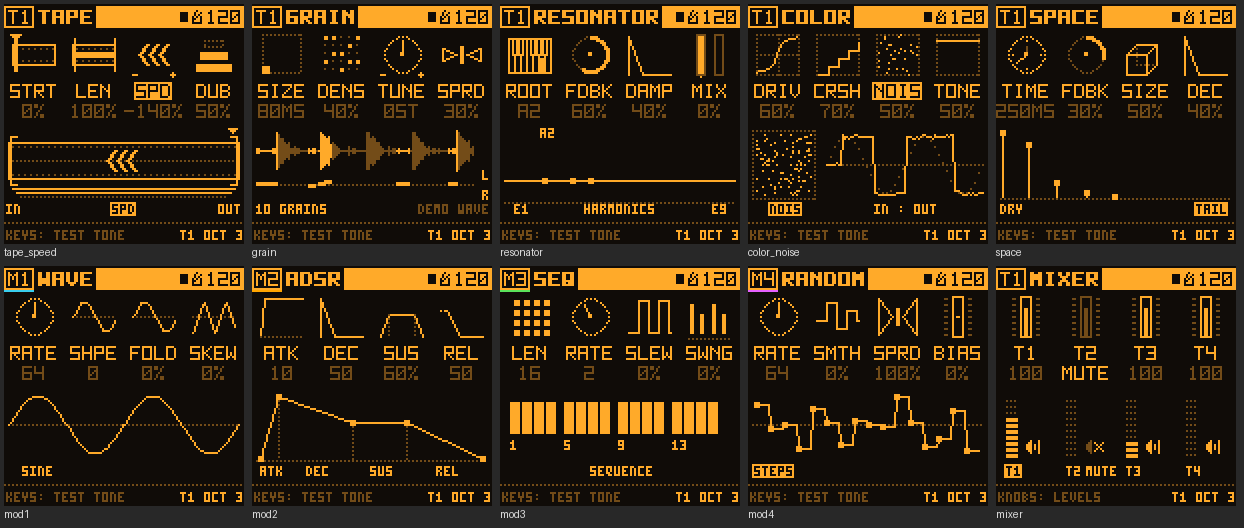
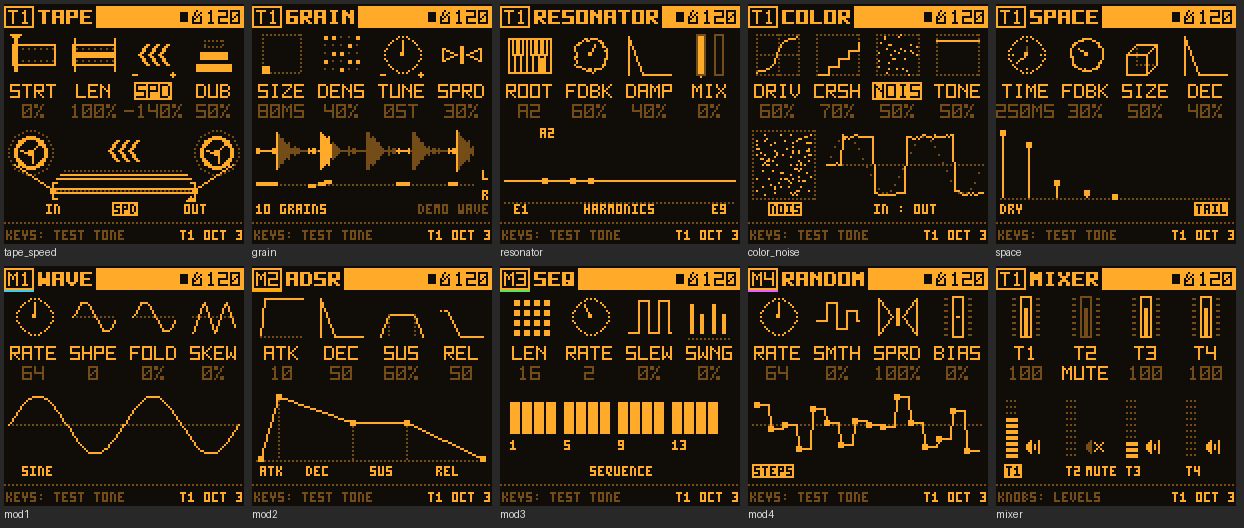
Bryo: a feedback ring that turns to chaos, and TAPE as a reel-to-reel
FDBK's dial (RESONATOR, SPACE): each of the ring's 64 points moves off its
radius by up to 2.2 dots, a slow two-sine wobble at low feedback giving way to
jitter near the top. It stays inside its 22-dot box at every value; fixed seeds
keep the picture the same for the same value. A pointer still reads the value.

TAPE: two reels, two guides, and the run between the guides is the whole tape,
with the loop bracketed on it, the playhead under it, SPD as chevrons between
the reels and DUB as layers over the window. The dashed strip read as a road.

Goldens and screen sheets updated.

Claude-Session: https://claude.ai/code/session_011E3mkWDTWqtPtt4Lk7Lgg8

Changed region(s): [[0.0, 0.2424, 0.2138, 0.4242], [0.8553, 0.0606, 0.8859, 0.1515], [0.4582, 0.0606, 0.4887, 0.1515]]

diff --git a/bryo/firmware/src/ui_viz.c b/bryo/firmware/src/ui_viz.c
@@ -7,8 +7,8 @@
  * a value sits, dotted drop lines and guides, small 3 x 5 labels under the plot, the way a groovebox draws an
  * envelope. The page's last-turned knob gets its label inverted here too, where the picture has one.
  *
- *   TAPE       the tape with its sprocket holes, the loop window bracketed (START, LEN), the playhead, SPEED as
- *              chevrons inside the window, DUB as the layers under it
+ *   TAPE       a reel-to-reel: the run between the guides is the whole tape, the loop window bracketed on it
+ *              (STRT, LEN), the playhead under it, SPD as chevrons between the reels, DUB as layers over the window
  *   GRAIN      the sample in TAPE's loop window, lit where grains read it (SIZE, scaled by PITCH), and one solid
  *              block per grain (DENS) in a stereo lane under it (SPRD, up = left, down = right)
  *   RESONATOR  the response over 8 octaves: peaks on ROOT's harmonics (a node on each, the root's filled and
@@ -67,40 +67,59 @@ static void vz_poly(const int32_t *xs, const int32_t *ys, int32_t n, uint16_t c,
 }
 
 /* -------------------------------------------------------------- TAPE --- */
+/* a reel: its flange (dotted), the tape wound on it (solid), the hub and three spokes */
+static void vz_reel(int32_t cx, int32_t cy)
+{
+    int32_t k;
+    px_ring(cx, cy, 11, px_dim, 2);
+    px_ring(cx, cy, 8, px_ink, 1);
+    px_ring(cx, cy, 7, px_ink, 1);
+    px_box(cx - 1, cy - 1, 3, 3, px_ink);
+    for (k = 0; k < 3; k++)
+        px_line(px_px(cx, 2, 8 + k * 21), px_py(cy, 2, 8 + k * 21), px_px(cx, 5, 8 + k * 21), px_py(cy, 5, 8 + k * 21), px_ink, 1);
+}
+
 static void viz_tape(const int16_t *v, uint32_t f)
 {
-    int32_t x0 = DX0 + 1 + v[0] * (DW - 2) / 100, x1 = x0 + v[1] * (DW - 2) / 100, i, k, lit = (v[3] + 33) / 34;
-    if (x1 > DX1 - 1)
-        x1 = DX1 - 1;
-    px_frame(DX0, 7, DW + 1, 19, px_ink, 1);                           /* the tape */
-    for (i = DX0 + 2; i < DX1 - 1; i += 3) {                          /* its sprocket holes */
-        px_dot(i, 9, px_dim);
-        px_dot(i, 23, px_dim);
-    }
-    px_line(DX0 + 2, 16, DX1 - 2, 16, px_dim, 2);                      /* empty: a flat line (phase 2: the take) */
+    /* A reel-to-reel: the tape leaves the left reel, runs over two guides along the bottom (the whole tape, start
+     * to end, left to right) and winds onto the right reel. The loop window is bracketed on that run (START, LEN),
+     * the playhead sits under where playing starts (the end when reversed), SPEED is the chevrons between the
+     * reels, and DUB the layers stacked over the window. */
+    int32_t ga = 24, gb = 95, run = 31, x0 = ga + v[0] * (gb - ga) / 100, x1 = x0 + v[1] * (gb - ga) / 100, k;
+    int32_t lit = (v[3] + 33) / 34;
+    if (x1 > gb)
+        x1 = gb;
+    vz_reel(13, 12);
+    vz_reel(106, 12);
+    px_line(5, 18, ga - 1, run - 1, px_ink, 1);                        /* off the left reel, onto the right */
+    px_line(gb + 1, run - 1, 114, 18, px_ink, 1);
+    vz_node(ga, run, 0);                                               /* the guides */
+    vz_node(gb, run, 0);
+    px_line(ga + 2, run - 1, gb - 2, run - 1, px_ink, 1);              /* the run: a band two dots deep */
+    px_line(ga + 2, run + 1, gb - 2, run + 1, px_ink, 1);
+    px_line(ga + 2, run, gb - 2, run, px_dim, 2);                      /* empty (phase 2: the take shows here) */
     for (k = 0; k < 2; k++) {                                          /* the brackets, 2 dots wide when turned */
         int32_t x = k ? x1 : x0, s = k ? -1 : 1, w = f == (uint32_t)k ? 2 : 1;
-        px_box(k ? x - w + 1 : x, 4, w, 25, px_ink);
-        px_line(x, 4, x + 3 * s, 4, px_ink, 1);
-        px_line(x, 28, x + 3 * s, 28, px_ink, 1);
+        px_box(k ? x - w + 1 : x, run - 4, w, 9, px_ink);
+        px_line(x, run - 4, x + 2 * s, run - 4, px_ink, 1);
+        px_line(x, run + 4, x + 2 * s, run + 4, px_ink, 1);
     }
-    {   /* the playhead: a triangle over where playing starts (the end, reversed) */
+    {   /* the playhead: a triangle under the run, pointing up at where playing starts */
         int32_t px = v[2] < 0 ? x1 - 2 : x0 + 2;
         for (k = 0; k < 3; k++)
-            px_box(px - 2 + k, k, 5 - 2 * k, 1, px_ink);
+            px_box(px - k, run + 3 + k, 1 + 2 * k, 1, px_ink);
     }
-    if (x1 - x0 >= 14)
-        px_chevrons((x0 + x1) / 2, 16, v[2], px_ink);
-    for (k = 0; k < 3; k++) {                                          /* DUB: the layers kept, under the window */
-        int32_t lx = x0 + 1 + k * 2, rx = x1 - 1 - k * 2;
+    for (k = 0; k < 3; k++) {                                          /* DUB: the layers kept, over the window */
+        int32_t lx = x0 + 2 + k * 2, rx = x1 - 2 - k * 2;
         if (rx > lx)
-            px_line(lx, 30 + k * 2, rx, 30 + k * 2, k < lit ? px_ink : px_dim, k < lit ? 1 : 2);
+            px_line(lx, run - 6 - k * 2, rx, run - 6 - k * 2, k < lit ? px_ink : px_dim, k < lit ? 1 : 2);
     }
+    px_chevrons(60, 11, v[2], px_ink);                                 /* SPEED, between the reels */
     vz_label(x0, "IN", f == 0u);
     if (x1 - x0 >= 22 || f == 1u)
         vz_label(x1, "OUT", f == 1u);
     if (f == 3u || f == 2u)
-        vz_label((x0 + x1) / 2, f == 3u ? "DUB" : "SPD", 1);
+        vz_label(60, f == 3u ? "DUB" : "SPD", 1);
 }
 
 /* ------------------------------------------------------------- GRAIN --- */

diff --git a/bryo/firmware/src/ui_px.c b/bryo/firmware/src/ui_px.c
@@ -330,13 +330,35 @@ static void px_picto(uint32_t kind, int32_t x, int32_t y, const pdesc_t *d, int3
         px_line(x + 20, cy - h, x + 20, cy + h, c, 1);
         break;
     }
-    case PK_LOOP: {                                      /* feedback: the ring closes as the value grows */
-        int32_t n = r * 63 / 1000, a;
-        px_ring(cx, cy, 9, m, 2);
-        for (a = 0; a <= n; a++) {
-            px_dot(px_px(cx, 9, a), px_py(cy, 9, a), c);
-            px_dot(px_px(cx, 8, a), px_py(cy, 8, a), c);
+    case PK_LOOP: {                                      /* feedback: the dial's ring turns to chaos as it rises */
+        /* Each of the ring's 64 points moves off radius 8 by up to 2.2 dots, so it never leaves the box: a slow
+         * wobble at low feedback (two sines), giving way to jitter near the top, the way a loop near self-
+         * oscillation smears. Fixed seeds: the same value draws the same ring. The pointer reads the value. */
+        int32_t k, px0 = 0, py0 = 0, fx = 0, fy = 0, amp = r * 22 / 1000;   /* amp: tenths of a dot */
+        uint32_t s = 2463534242u;
+        for (k = 0; k <= 64; k++) {
+            int32_t ak = k & 63, smooth = (px_sin(ak * 5 + 7) * 6 + px_sin(ak * 11 + 3) * 4) / 10, jit, d, rad, xx, yy;
+            s ^= s << 13;
+            s ^= s >> 17;
+            s ^= s << 5;
+            jit = (int32_t)(s % 2001u) - 1000;
+            d = k == 64 ? 0 : (smooth * (1000 - r) + jit * r) / 1000;       /* -1000..1000 */
+            rad = 80 + (k == 64 ? 0 : d * amp / 1000);                    /* tenths of a dot */
+            xx = cx + (px_sin(ak) * rad + (px_sin(ak) >= 0 ? 5000 : -5000)) / 10000;
+            yy = cy - (px_cos(ak) * rad + (px_cos(ak) >= 0 ? 5000 : -5000)) / 10000;
+            if (k == 64) {                                                /* close on the first point */
+                xx = fx;
+                yy = fy;
+            }
+            if (k)
+                px_line(px0, py0, xx, yy, c, 1);
+            else
+                fx = xx, fy = yy;
+            px0 = xx;
+            py0 = yy;
         }
+        k = -24 + r * 48 / 1000;
+        px_line(cx, cy, px_px(cx, 5, k), px_py(cy, 5, k), c, 1);
         px_box(cx - 1, cy - 1, 2, 2, c);
         break;
     }

diff --git a/bryo/docs/bryo-architecture.md b/bryo/docs/bryo-architecture.md
@@ -355,9 +355,13 @@ After phase 1, two changes to the screen, from your review:
     holding REC, the transport and the metronome, like the references.
   - **The strip** is four pictograms, and each one is the value: a dial's pointer, a fader's fill, a slope's
     length, a keyboard with the root key lit, chevrons for tape speed, stacked takes for DUB, a dot field for
-    density. The label sits under it (4 letters, Elektron-style: `STRT`, `TUNE`, `DRIV`, `SWNG`), the value
+    density. FDBK's dial ring turns to chaos as feedback rises: a slow wobble first, then jitter near the top, the
+    way a loop close to self-oscillation smears. Every point stays within 2 dots of the circle, so however wild it
+    gets it never leaves its box or touches its neighbours. The label sits under it (4 letters, Elektron-style: `STRT`, `TUNE`, `DRIV`, `SWNG`), the value
     under that in the dim ink.
-  - **The plot below** speaks the same language: 1-dot lines, square nodes where a value sits, dotted drop
+  - **The plot below** speaks the same language (TAPE is a reel-to-reel: two reels, two guides, and the run between
+    the guides is the whole tape, with the loop bracketed on it; the first version was a dashed strip that read as
+    a road): 1-dot lines, square nodes where a value sits, dotted drop
     lines and guides, 3 x 5 labels under the stretch they name (the ADSR page is the clearest example of the
     pattern). Messages show as an inverted box over the plot, so the title never moves.
   - **Kept as it was:** the region signatures (a region redraws only when what it shows changes), the

diff --git a/bryo/README.md b/bryo/README.md
@@ -40,8 +40,8 @@ What works on the panel now (every control, in every context, with what's planne
 
 The screen is drawn like a groovebox OLED: a grid of 2 x 2 px dots, bitmap type, one ink from your palette.
 Each knob is a pictogram that shows its value (a dial's pointer, a fader's fill, a slope's length, a keyboard
-with the root lit), with a 4-letter label under it. Under the four of them, each page plots what it does in the
-same dotted language: the tape with its loop bracketed and chevrons for speed, the sample lit where grains read
+with the root lit, a feedback ring that wobbles into chaos as it rises), with a 4-letter label under it. Under the four of them, each page plots what it does in the
+same dotted language: a reel-to-reel with the loop bracketed on the tape and chevrons for speed, the sample lit where grains read
 it with one block per grain, the resonator's peaks with a node on each harmonic, a sine through COLOR (with an
 inset that follows your last knob), SPACE's echoes as stems and its tail, and each modulator's shape (ADSR names
 its stages, SEQ numbers its steps). The last knob you turned has its label inverted in both places.
